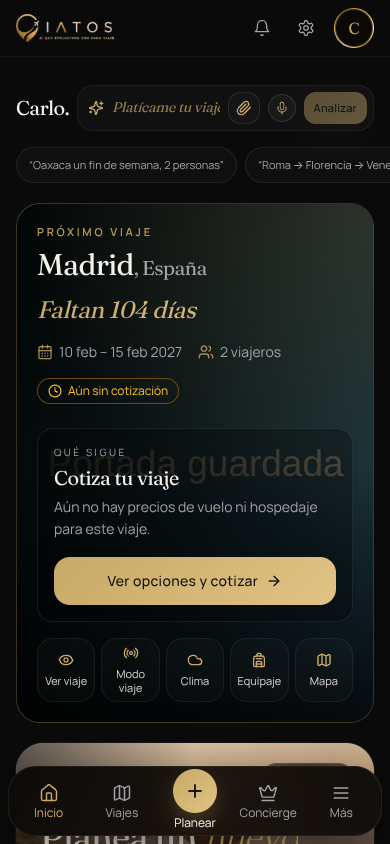
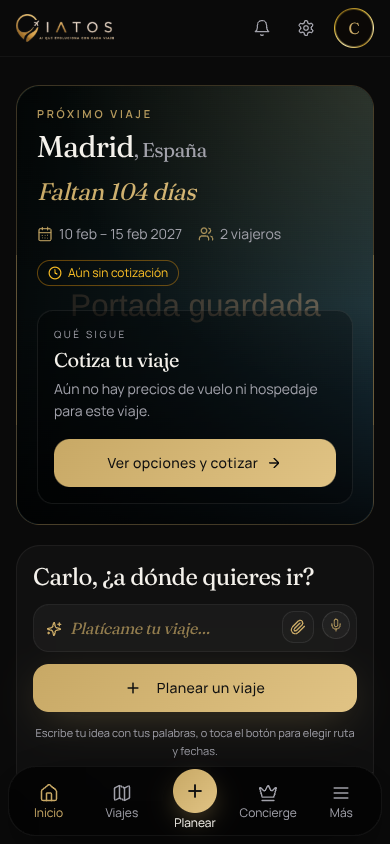
Inicio sencillo aprobado por el dueño: referencia visual 04-inicio actualizada
Une claude/mi-mundo y claude/inicio-sencillo (aprobados el 30-oct-2026) en main.
Gates: tsc OK, vitest 5309/5309, build OK, candado 171/171, candado visual 16/16.

Claude-Session: https://claude.ai/code/session_01GcD1is1yKfb8FqzW8huxBy

diff --git a/docs/iatos/LO_QUE_NO_SE_TOCA.md b/docs/iatos/LO_QUE_NO_SE_TOCA.md
@@ -173,7 +173,7 @@ Lista de lo protegido en forma de datos: `src/test/candadoInventario.ts` (rutas,
 ## 5. Candado visual (capturas de referencia)
 
 - **Qué:** las 16 pantallas más usadas a 390x844 (celular) con datos simulados: landing, auth, Ayuda, Inicio, Mis viajes, viaje (Resumen, Comprar, Itinerario con el globo), Planear, la ruta con el globo, Iato, Perfil, Gastos, Privé hub, Mesa de operaciones y "Mi mundo".
-- **Cambios aprobados:** 30-oct-2026 (aprobado por el dueño): la ruta con el globo arriba en el celular (`10-ruta-globo`), el Itinerario con el globo del viaje (`08-viaje-itinerario`) y la pantalla nueva `16-mi-mundo`; se actualizaron esas referencias.
+- **Cambios aprobados:** 30-oct-2026 (aprobado por el dueño): la ruta con el globo arriba en el celular (`10-ruta-globo`), el Itinerario con el globo del viaje (`08-viaje-itinerario`) y la pantalla nueva `16-mi-mundo`; se actualizaron esas referencias. Mismo día, también aprobado por el dueño: «Inicio sencillo» (`04-inicio`: tu próximo viaje + «Planear un viaje» arriba, herramientas agrupadas Antes / Durante / Después); se actualizó esa referencia.
 - **Referencias:** `docs/iatos/candado-visual/referencia/*.png` (en el repo).
 - **Comparar:** `npm run candado:visual`. Levanta su propio servidor local con datos simulados (no toca producción, no gasta), congela la fecha (29-oct-2026, 12:00 Ciudad de México), sirve fotos simuladas y apaga animaciones; marca **FALLA** si más del 1 % de los píxeles de una pantalla cambió (`--umbral 0.02` para 2 %). El globo gira solo: se tapa en la captura, pero se exige que exista (en la ruta, en el Itinerario y en "Mi mundo"). Deja las capturas nuevas y los mapas de diferencias (en rojo) en `docs/iatos/candado-visual/ultima-corrida/` (no se suben). Tarda ~1.5 min, por eso no va dentro de vitest.
 - **Actualizar referencias** (solo con aprobación del dueño, §1): `npm run candado:visual -- --actualizar`. Una sola pantalla: `--solo 10-ruta`.
